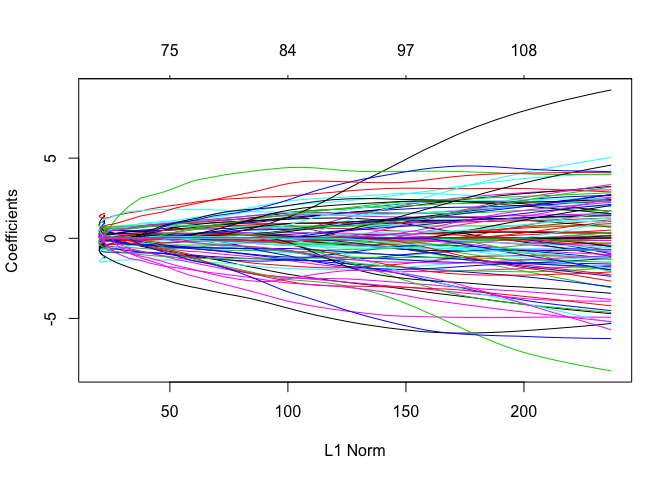
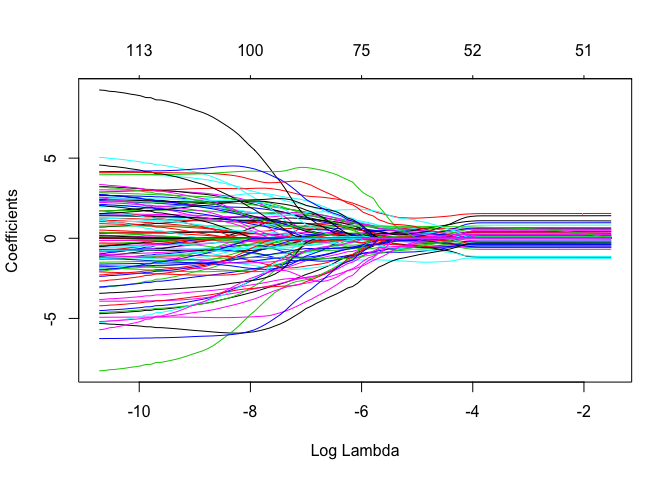
added term in plot function to make x variable lambda instead of l2 norm

diff --git a/code/lasso-crossValResults.md b/code/lasso-crossValResults.md
@@ -312,7 +312,7 @@ We view the coefficient path, error curve and coefplot for both `lambda.1se` and
 
 ``` r
 #pathSimple(all1, elementId='all1_mod') ## this makes interactive graphs. github doesn't like them b/c they are html widgets so we're using plot instead to make static graphs
-plot(all1$glmnet.fit)
+plot(all1$glmnet.fit, xvar = "lambda")
 ```
 
 ![](lasso-crossValResults_files/figure-markdown_github/all1-error-curve-1.png)
@@ -339,7 +339,7 @@ We view the coefficient path, error curve and coefplot for both `lambda.1se` and
 
 ``` r
 #pathSimple(all2, elementId='all2_mod')
-plot(all2$glmnet.fit)
+plot(all2$glmnet.fit, xvar = "lambda")
 ```
 
 ![](lasso-crossValResults_files/figure-markdown_github/all2-error-curve-1.png)
@@ -366,7 +366,7 @@ We view the coefficient path, error curve and coefplot for both `lambda.1se` and
 
 ``` r
 #pathSimple(all3, elementId='all3_mod')
-plot(all3$glmnet.fit)
+plot(all3$glmnet.fit, xvar = "lambda")
 ```
 
 ![](lasso-crossValResults_files/figure-markdown_github/all3-error-curve-1.png)
@@ -393,7 +393,7 @@ We view the coefficient path, error curve and coefplot for both `lambda.1se` and
 
 ``` r
 #pathSimple(all4, elementId='all4_mod')
-plot(all4$glmnet.fit)
+plot(all4$glmnet.fit, xvar = "lambda")
 ```
 
 ![](lasso-crossValResults_files/figure-markdown_github/all4-error-curve-1.png)
